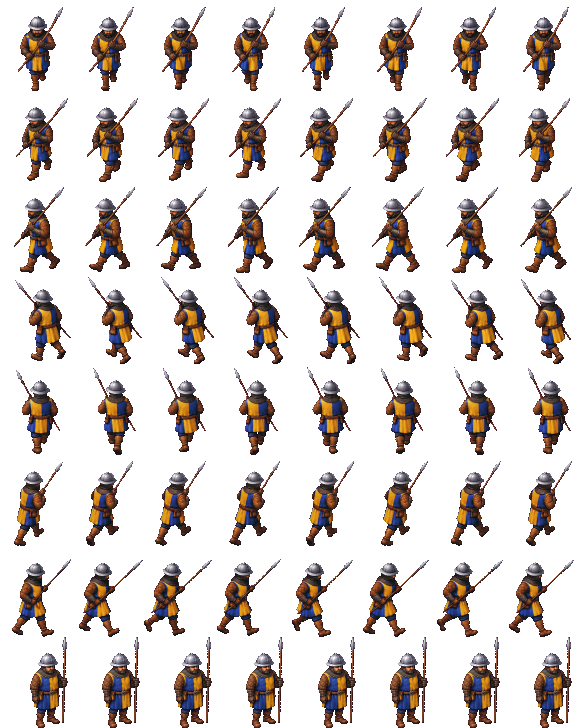
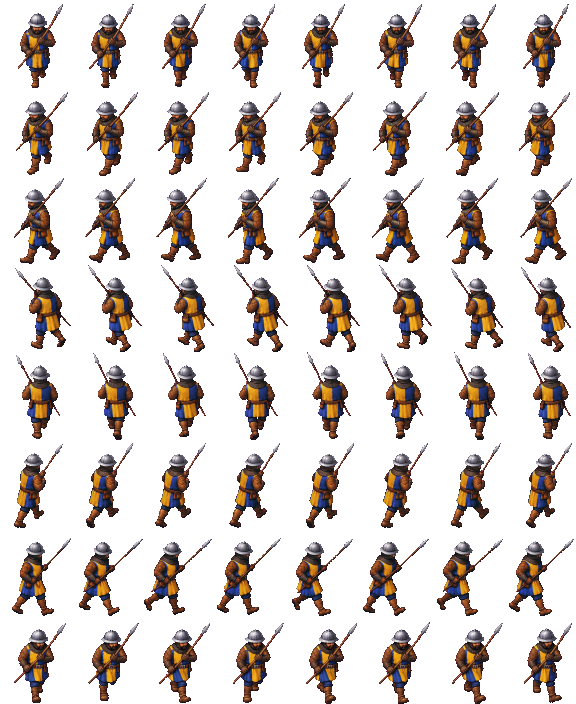
De speerman loopt ook naar ZO: vel 9 uit het nieuwe gesprek
Marcel: "Deze lijkt goed te werken". Met vel 1 en 2 als voorbeeld in een nieuw gesprek kwam vel 9 als dezelfde man,
mat en met baard; nu loopt hij in alle acht richtingen. Wat nog komt: aanvallen en vallen (vel 10 tot 25).

diff --git a/beelden/beschrijving.js b/beelden/beschrijving.js
@@ -586,11 +586,11 @@
        "stap": 0.6,
        "cel": [
         72,
-        91
+        88
        ],
        "anker": [
         41,
-        91
+        88
        ]
       },
       "aanval": {

diff --git a/ontwerp/beelden-van-de-generator.md b/ontwerp/beelden-van-de-generator.md
@@ -276,8 +276,8 @@ generator van 1,7 MB; op spelmaat is het verschil ruis) en lopen in het spel. Wa
 - **Bij staan NW en ZO houdt hij de speer in zijn linkerhand** (de speer springt van kant als hij draait). Klein op
   spelmaat; vel 1 opnieuw vragen verandert ook het voorbeeld voor de maat en de kleur van alle andere, dus dat laten we.
   In de masterprompt staat nu aan welke kant de speer staat.
-- **Nog te maken:** 9 (lopen ZO), 10 tot 17 (aanvallen) en 18 tot 25 (vallen). Tot dan staat ZO stil en vallen de
-  aanval en het vallen terug op de oude vellen van ZW.
+- **Nog te maken:** 10 tot 17 (aanvallen) en 18 tot 25 (vallen). Tot dan vallen de aanval en het vallen terug op de
+  oude vellen van ZW. Vel 9 (lopen ZO) kwam in het nieuwe gesprek goed (hieronder), dus hij loopt in alle acht richtingen.
 - **Vel 9 verliep** (21 okt): de richting klopte, maar het was een andere man (een sjerp, klinknagels, een geplooide rok,
   geen baard) en glimmend als een 3D-render. Kleur en maat trekt `generator.cjs` gelijk, andere kleren niet. Daarom
   **een nieuw gesprek** als de man verloopt: vel 1 en vel 2 (`01.webp`, `02.webp`, de twee die goed zijn) erbij in plaats
@@ -285,7 +285,8 @@ generator van 1,7 MB; op spelmaat is het verschil ruis) en lopen in het spel. Wa
   the attached sheets", en als slot: "The attached sheets are sheet 1 (standing in all 8 directions) and sheet 2 (walking
   S); they are correct. Make sheet 9 now. After each sheet, wait until I say "next", then make the next sheet in the
   list. Always use the attached sheets as the reference for the character, the style and the scale, so he stays exactly
-  the same." De regels mat, geen klinknagels en geen sjerp staan sindsdien ook in de masterprompt hierboven.
+  the same." De regels mat, geen klinknagels en geen sjerp staan sindsdien ook in de masterprompt hierboven. Het werkte:
+  vel 9 kwam daarna als dezelfde man, mat en met baard (Marcel: "Deze lijkt goed te werken").
 
 ## De inventaris
 

diff --git a/ontwerp/werklijst.md b/ontwerp/werklijst.md
@@ -32,8 +32,8 @@ de pijplijn van vraag 180 (Q, f; niet in de cloud). **Bezig in sessie `lokaal-da
 **nieuwe weg** (Marcel, 21 okt: "Ok, dan zullen we moeten inventariseren welke gebouwen en poppetjes we nodig hebben. Dan
 kunnen we de andere generator deze 1 voor 1 laten maken. Jij moet dan zorgen dat ze passend worden in het spel"): de
 generator van zijn plaat maakt de bron, wij maken het passend; eerst de inventaris (`beelden-van-de-generator.md`). De
-speerman staat en loopt in het spel in zeven richtingen (21 okt, de masterprompt); **wacht op Marcel**: vel 9 en 10 tot
-25, en eventueel 3 en 4 opnieuw (de punt naar achteren).
+speerman staat en loopt in het spel in acht richtingen (21 okt, de masterprompt); **wacht op Marcel**: vel 10 tot 25 (in
+het nieuwe gesprek, `beelden-van-de-generator.md`), en eventueel 3 en 4 opnieuw (de punt naar achteren).
 
 **Marcels acht punten van 20 okt** (R, vraag 182 tot 189: egaliseren met de schop, de maat van de huizen, dragers, een
 overval in de demo, punten, een campagne met een editor, skirmish, en wat er van het middeleeuwse leven mist): **besloten**
